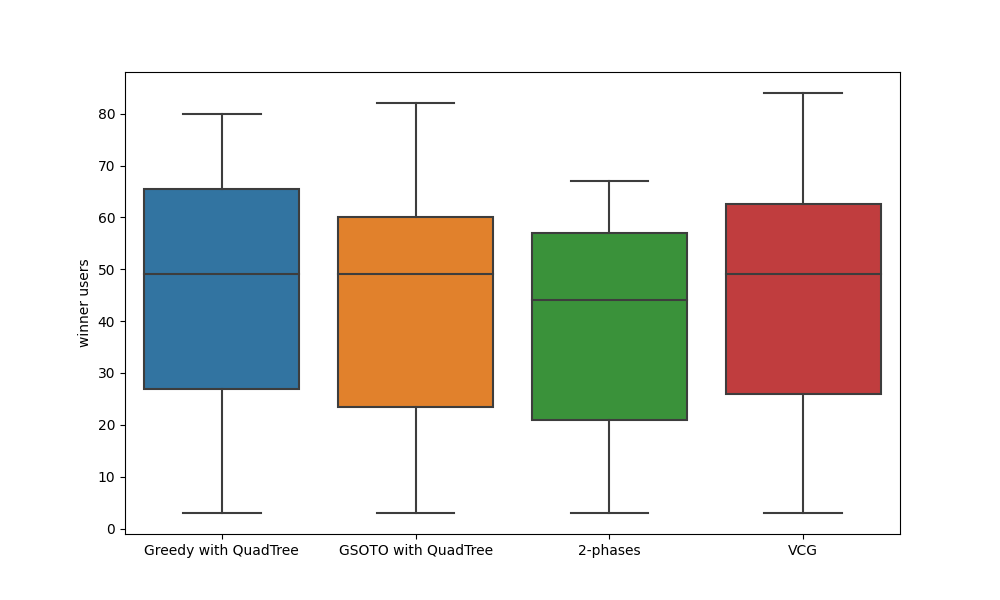
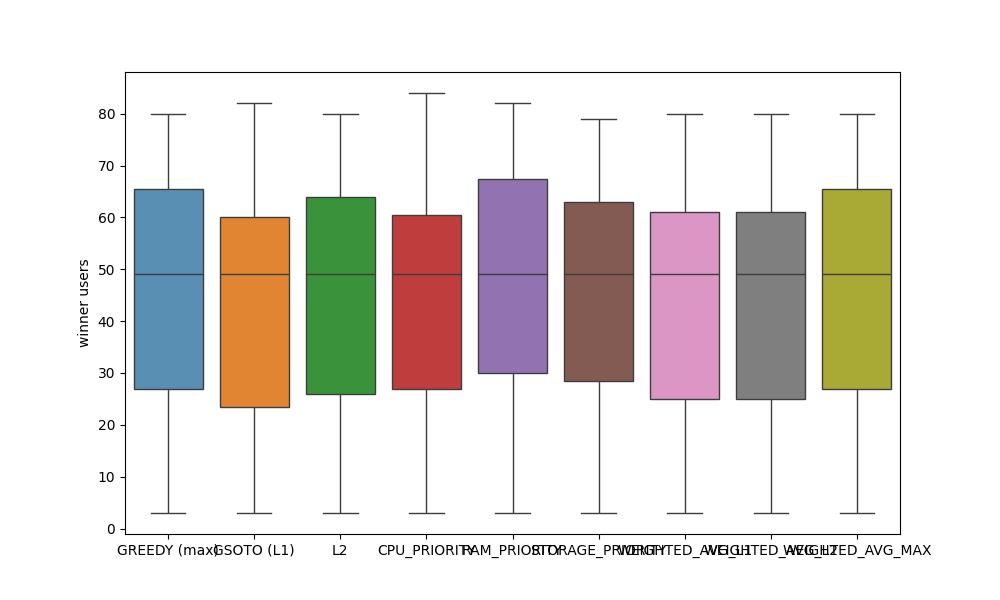
preparing and generating data analysis of the norm tests

diff --git a/data_analysis/analysis.py b/data_analysis/analysis.py
@@ -69,7 +69,7 @@ def swAndProfitComparison(algorithms, users, instance, xAxis, yAxis):
     cumulative = 'cumulative'
     inputFile = yAxis if yAxis == 'prices' else 'social_welfare'
     for alg in algorithms:
-        df = pd.read_csv(f'{PATH}{alg[0]}-{users}users/1/{inputFile}_{alg[0]}_{instance}.csv')
+        df = pd.read_csv(f'{PATH}{alg[0]}-{users}users/0/{inputFile}_{alg[0]}_{instance}.csv')
         df['algorithm'] = alg[1]
         df['time-step'] -= 1
         df['time-step'] /= 60
@@ -256,7 +256,7 @@ def buildBoxplot(algorithms, users, instance, yType, x, y, ylabel, fileName, cut
     for df in dataframes:
         combinedDf[df['algorithm'][0]] = df[y]
 
-    palette= ['#3474a4','#e3832c','#3c923c']
+    palette= ['#4b92c3','#ff8315','#2ca02c', '#d62728', '#9467bd', '#8c564b', '#e78acb', '#7f7f7f', '#bcbd22']
 
     plt.figure(figsize=(10, 6))
     g = sb.boxplot(data=pd.melt(combinedDf), x='variable', y='value', palette=palette)
@@ -354,7 +354,7 @@ def buildExecTime(algorithms, users, instance, x, y, ylabel, fileName):
     datasets = []
     for alg in algorithms:
         algDatasets = []
-        for i in range(20):
+        for i in range(19):
             filename = f'{PATH}{alg[0]}-{users}users/{i}/exec_time_{alg[0]}_11.csv'
             dataset = pd.read_csv(filename)
             dataset['time-step'] -= 1
@@ -368,7 +368,7 @@ def buildExecTime(algorithms, users, instance, x, y, ylabel, fileName):
         for dataset in algDatasets:
             for index, row in dataset.iterrows():
                 x_value = row[x]
-                y_value = row['exec time']
+                y_value = row['total time']
 
                 if x_value not in combinedData[i]:
                     combinedData[i][x_value] = []
@@ -403,15 +403,16 @@ def buildExecTime(algorithms, users, instance, x, y, ylabel, fileName):
     for i in range(len(x_values[0])):
         axs[0].text(x_values[0][i], datasets[0][0]['number of users'][i]+10, str(datasets[0][0]['number of users'][i]), ha='center', va='center')
 
+    markers = ['dashed', 'solid', 'solid', 'solid', 'solid', 'solid', 'solid', 'solid', 'solid', 'solid', 'solid', 'solid', 'solid']
     for i in range(len(algorithms)):
-        axs[1].plot(x_values[i], averages[i], label=algorithms[i][1])
+        axs[1].plot(x_values[i], averages[i], label=algorithms[i][1], linestyle=markers[i])
         # axs[1].fill_between(x_values[i], np.subtract(averages[i],std_deviations[i]), 
         #                 np.add(averages[i],std_deviations[i]), alpha=0.5)
 
     plt.legend(loc='upper right')
     plt.xlabel(x)
     plt.xticks(x_values[0])
-    plt.ylabel('allocation exec time (seconds)')
+    plt.ylabel('auction exec time (seconds)')
     plt.show()
 
 def buildTwoPhasesComparison(users, instance, x):
@@ -468,7 +469,10 @@ def buildTwoPhasesComparison(users, instance, x):
 
 algorithms = [(0, 'Greedy with QuadTree'), (1, 'Greedy'), (2, 'GSOTO with QuadTree'), (3, 'GSOTO'), (4, '2-phases'), (5, 'ILP')]
 algorithms_cQT = [(0, 'Greedy with QuadTree'), (1, 'Greedy'), (2, 'GSOTO with QuadTree'), (3, 'GSOTO')]
-algorithms_ = [(0, 'GAMEC with QuadTree'), (2, 'GSOTO with QuadTree'), (5, 'VCG')]
+algorithms_ = [(0, 'GAMEC with QuadTree'), (2, 'GSOTO with QuadTree')]
+algorithms_norm = [(0, 'GREEDY (max)'), (2, 'GSOTO (L1)'), (6, 'L2'), (7, 'CPU_PRIORITY'), 
+                   (8, 'RAM_PRIORITY'), (9, 'STORAGE_PRIORITY'), (10, 'WEIGHTED_AVG_L1'), 
+                   (11, 'WEIGHTED_AVG_L2'), (12, 'WEIGHTED_AVG_MAX')]
 algorithms_noVCG = [(0, 'Greedy with QuadTree'), (2, 'GSOTO'), (4, '2-phases')]
 algorithms_QT = [(0, 'Greedy with QuadTree'), (2, 'GSOTO with QuadTree')]
 users = 100
@@ -476,11 +480,11 @@ instance = 11
 byTimeStep = 'time-step'
 byUsers = 'number of users'
 
-# buildBoxplot_VMTypes(algorithms_, users, instance, 'alloc_results', byUsers, 'number of winners', 'price (USD)', 'vm_types_100')
+# buildBoxplot_VMTypes(algorithms_norm, users, instance, 'alloc_results', byUsers, 'number of winners', 'price (USD)', 'vm_types_100')
 
-buildExecTime(algorithms_, users, instance, byTimeStep, 'exec time', 'execution time (seconds)', 'exec_time_100')
+# buildExecTime(algorithms_norm, users, instance, byTimeStep, 'exec time', 'execution time (seconds)', 'exec_time_500')
 
-# buildTwoPhasesComparison(users, instance, byTimeStep) # vai virar uma frase só, sem grafico
+# buildTwoPhasesComparison(users, instance, byTimeStep)
 
 # plotWinners(algorithms_, 100, instance, 'prices', byTimeStep, 'number of winners', 'number of winners', 'winners_100')
 
@@ -488,14 +492,14 @@ buildExecTime(algorithms_, users, instance, byTimeStep, 'exec time', 'execution 
 # plotResUsage(algorithms_, users, instance, 'cloudlets_usage', byTimeStep, 'used ram avg', 'used ram (%)', 'ram_100','RAM')
 # plotResUsage(algorithms_, users, instance, 'cloudlets_usage', byTimeStep, 'used storage avg', 'used storage (%)', 'storage_100', 'Storage')
 
-# buildBoxplot(algorithms_, users, instance, 'latencies', byUsers, 
+# buildBoxplot(algorithms_norm, users, instance, 'latencies', byUsers, 
 #             'avg latency (for the allocated)', 'latency (seconds)', 'lat_100', False)
 
-# swAndProfitComparison(algorithms_, users, instance, byTimeStep, 'social welfare')
-# swAndProfitComparison(algorithms_, users, instance, byTimeStep, 'prices')
+# swAndProfitComparison(algorithms_norm, users, instance, byTimeStep, 'social welfare')
+# swAndProfitComparison(algorithms_norm, users, instance, byTimeStep, 'prices')
 
-# buildBoxplot(algorithms_, users, instance, 'prices', byUsers, 
-#               'number of winners', 'winner users', 'winners_bp', False)
+buildBoxplot(algorithms_norm, users, instance, 'prices', byUsers, 
+              'number of winners', 'winner users', 'winners_bp', False)
 
 # ---------------------------------------------------------------------------
 

diff --git a/data_analysis/resource_analysis.py b/data_analysis/resource_analysis.py
@@ -1,0 +1,37 @@
+import pandas as pd
+
+def readCsvFile(fileName):
+    df = pd.read_csv(fileName)
+    return df
+
+if __name__ == '__main__':
+    alg = 2
+    fileName = f'/home/jps/GraphGenFrw/Simulator/logfiles/alg{alg}-100users/{alg}/cloudlets_states_{alg}_11.csv'
+    df = readCsvFile(fileName)
+    
+    # remove line from df if the column 'c.currUsersAllocated' is '[]'
+    df = df[df['c.currUsersAllocated'] != '[]']
+    
+    # edit colunm name
+    df.rename(columns={'c.cpu(full/unused)':'c.cpu(%used)'}, inplace=True)
+    df.rename(columns={'c.storage(full/unused)':'c.storage(%used)'}, inplace=True)
+    df.rename(columns={'c.ram(full/unused)':'c.ram(%used)'}, inplace=True)
+
+    # edit each value from column 'c.cpu(%used)' removing the character '()'
+    df['c.cpu(%used)'] = df['c.cpu(%used)'].str.replace('(', '').str.replace(')', '')
+    df['c.storage(%used)'] = df['c.storage(%used)'].str.replace('(', '').str.replace(')', '')
+    df['c.ram(%used)'] = df['c.ram(%used)'].str.replace('(', '').str.replace(')', '')
+
+    # add a colunm with the number of users allocated in each cloudlet
+    df['num allocated users'] = df['c.currUsersAllocated'].str.replace('[', '').str.replace(']', '').str.split(',').str.len()
+
+    # edit each value from colunm 'c.cpu' to a correspondent first value devided by the second value
+    df['c.cpu(%used)'] = (df['c.cpu(%used)'].str.split(',', expand=True)[0].astype(float) 
+        - df['c.cpu(%used)'].str.split(',', expand=True)[1].astype(float)) / df['c.cpu(%used)'].str.split(',', expand=True)[0].astype(float)
+    df['c.storage(%used)'] = (df['c.storage(%used)'].str.split(',', expand=True)[0].astype(float) 
+        - df['c.storage(%used)'].str.split(',', expand=True)[1].astype(float)) / df['c.storage(%used)'].str.split(',', expand=True)[0].astype(float)
+    df['c.ram(%used)'] = (df['c.ram(%used)'].str.split(',', expand=True)[0].astype(float) 
+        - df['c.ram(%used)'].str.split(',', expand=True)[1].astype(float)) / df['c.ram(%used)'].str.split(',', expand=True)[0].astype(float)
+
+    # SAVE IT INTO A CSV FILE
+    df.to_csv('cloudlets_states_2_11_TREATED.csv', index=False)
